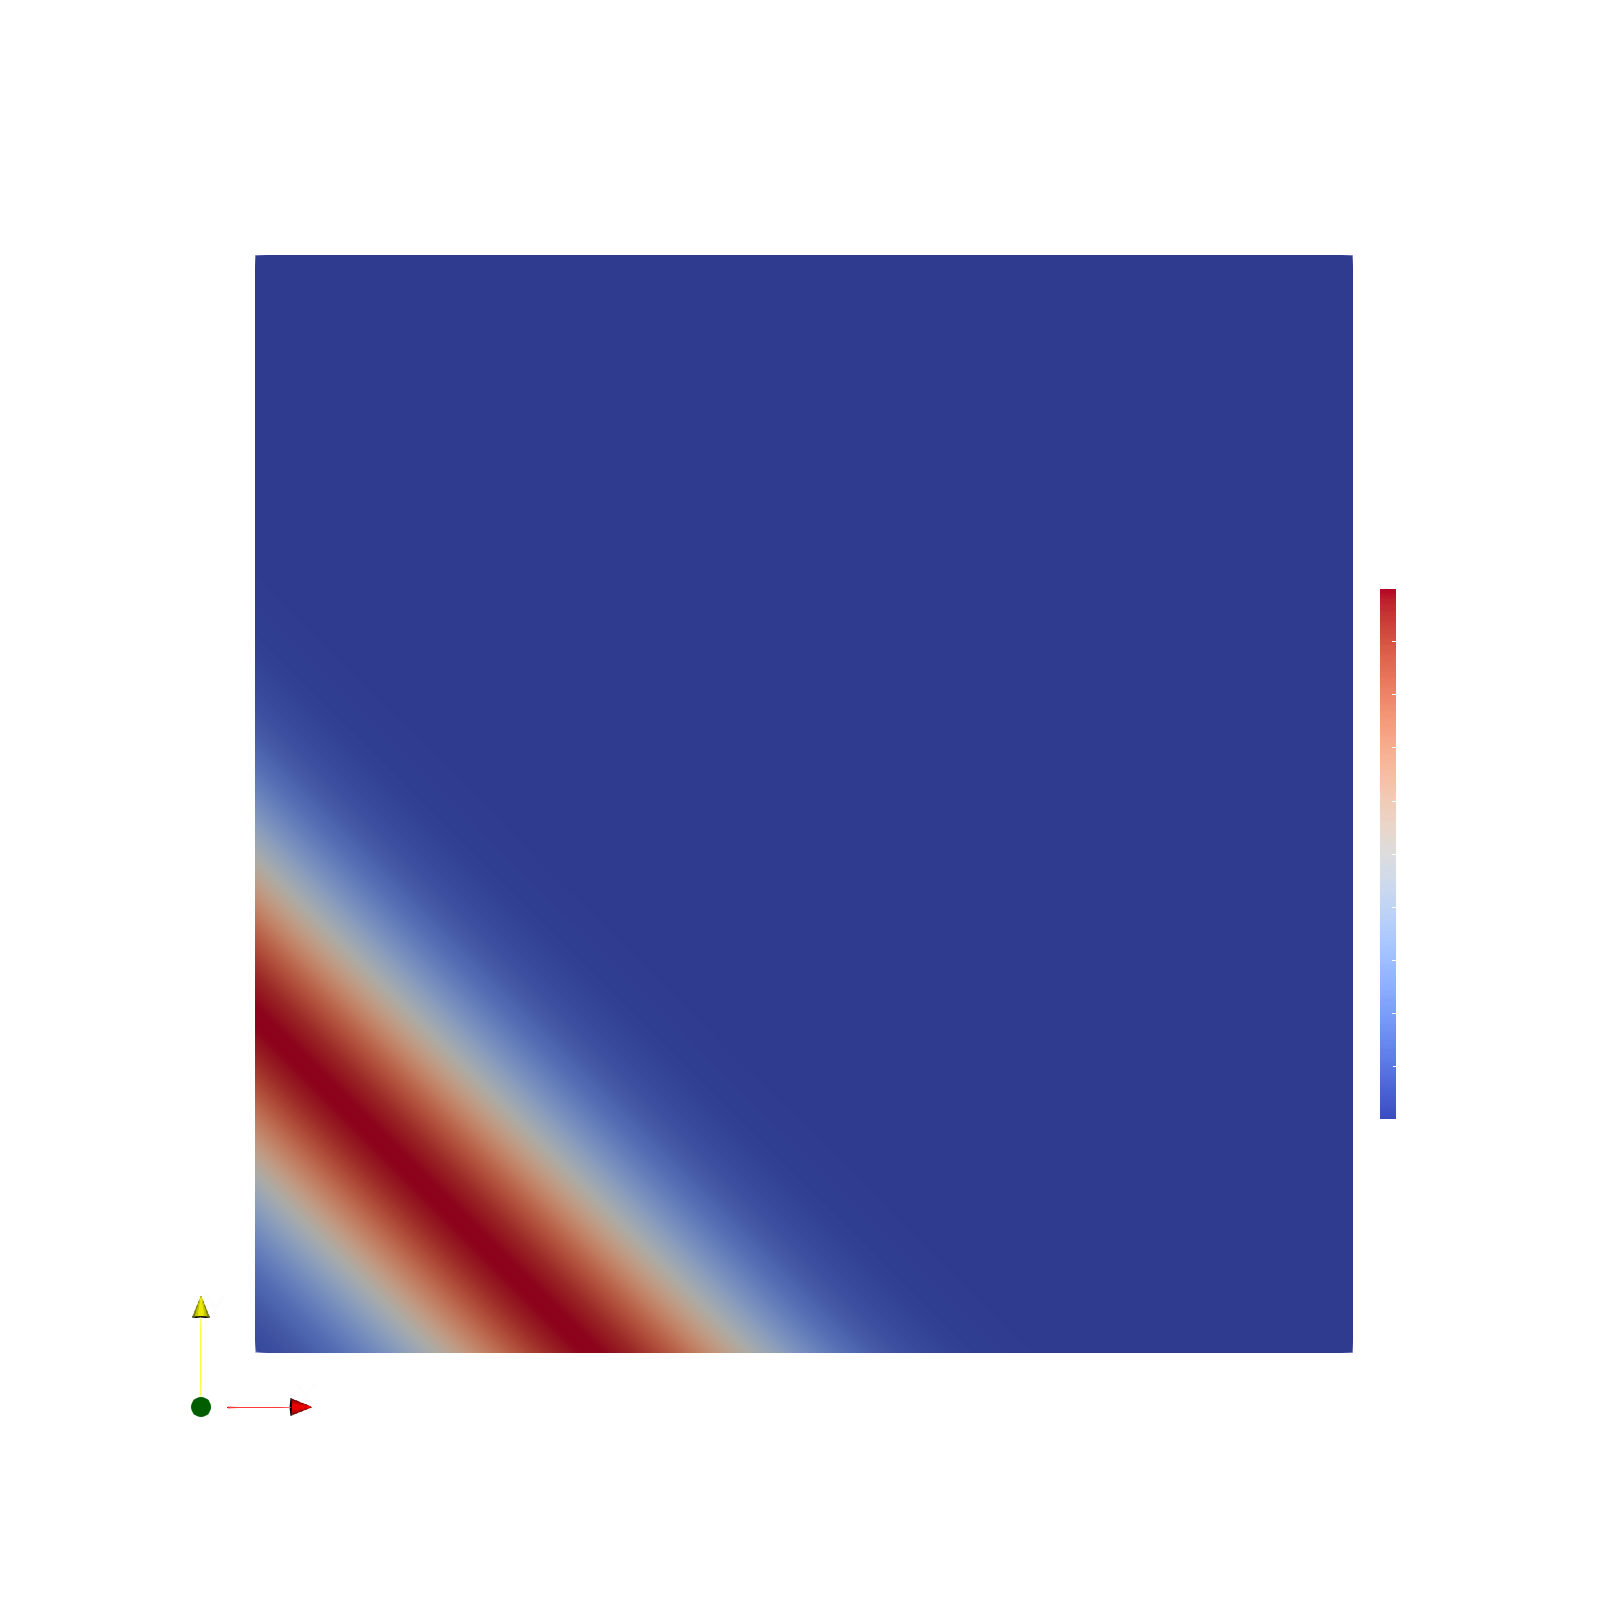
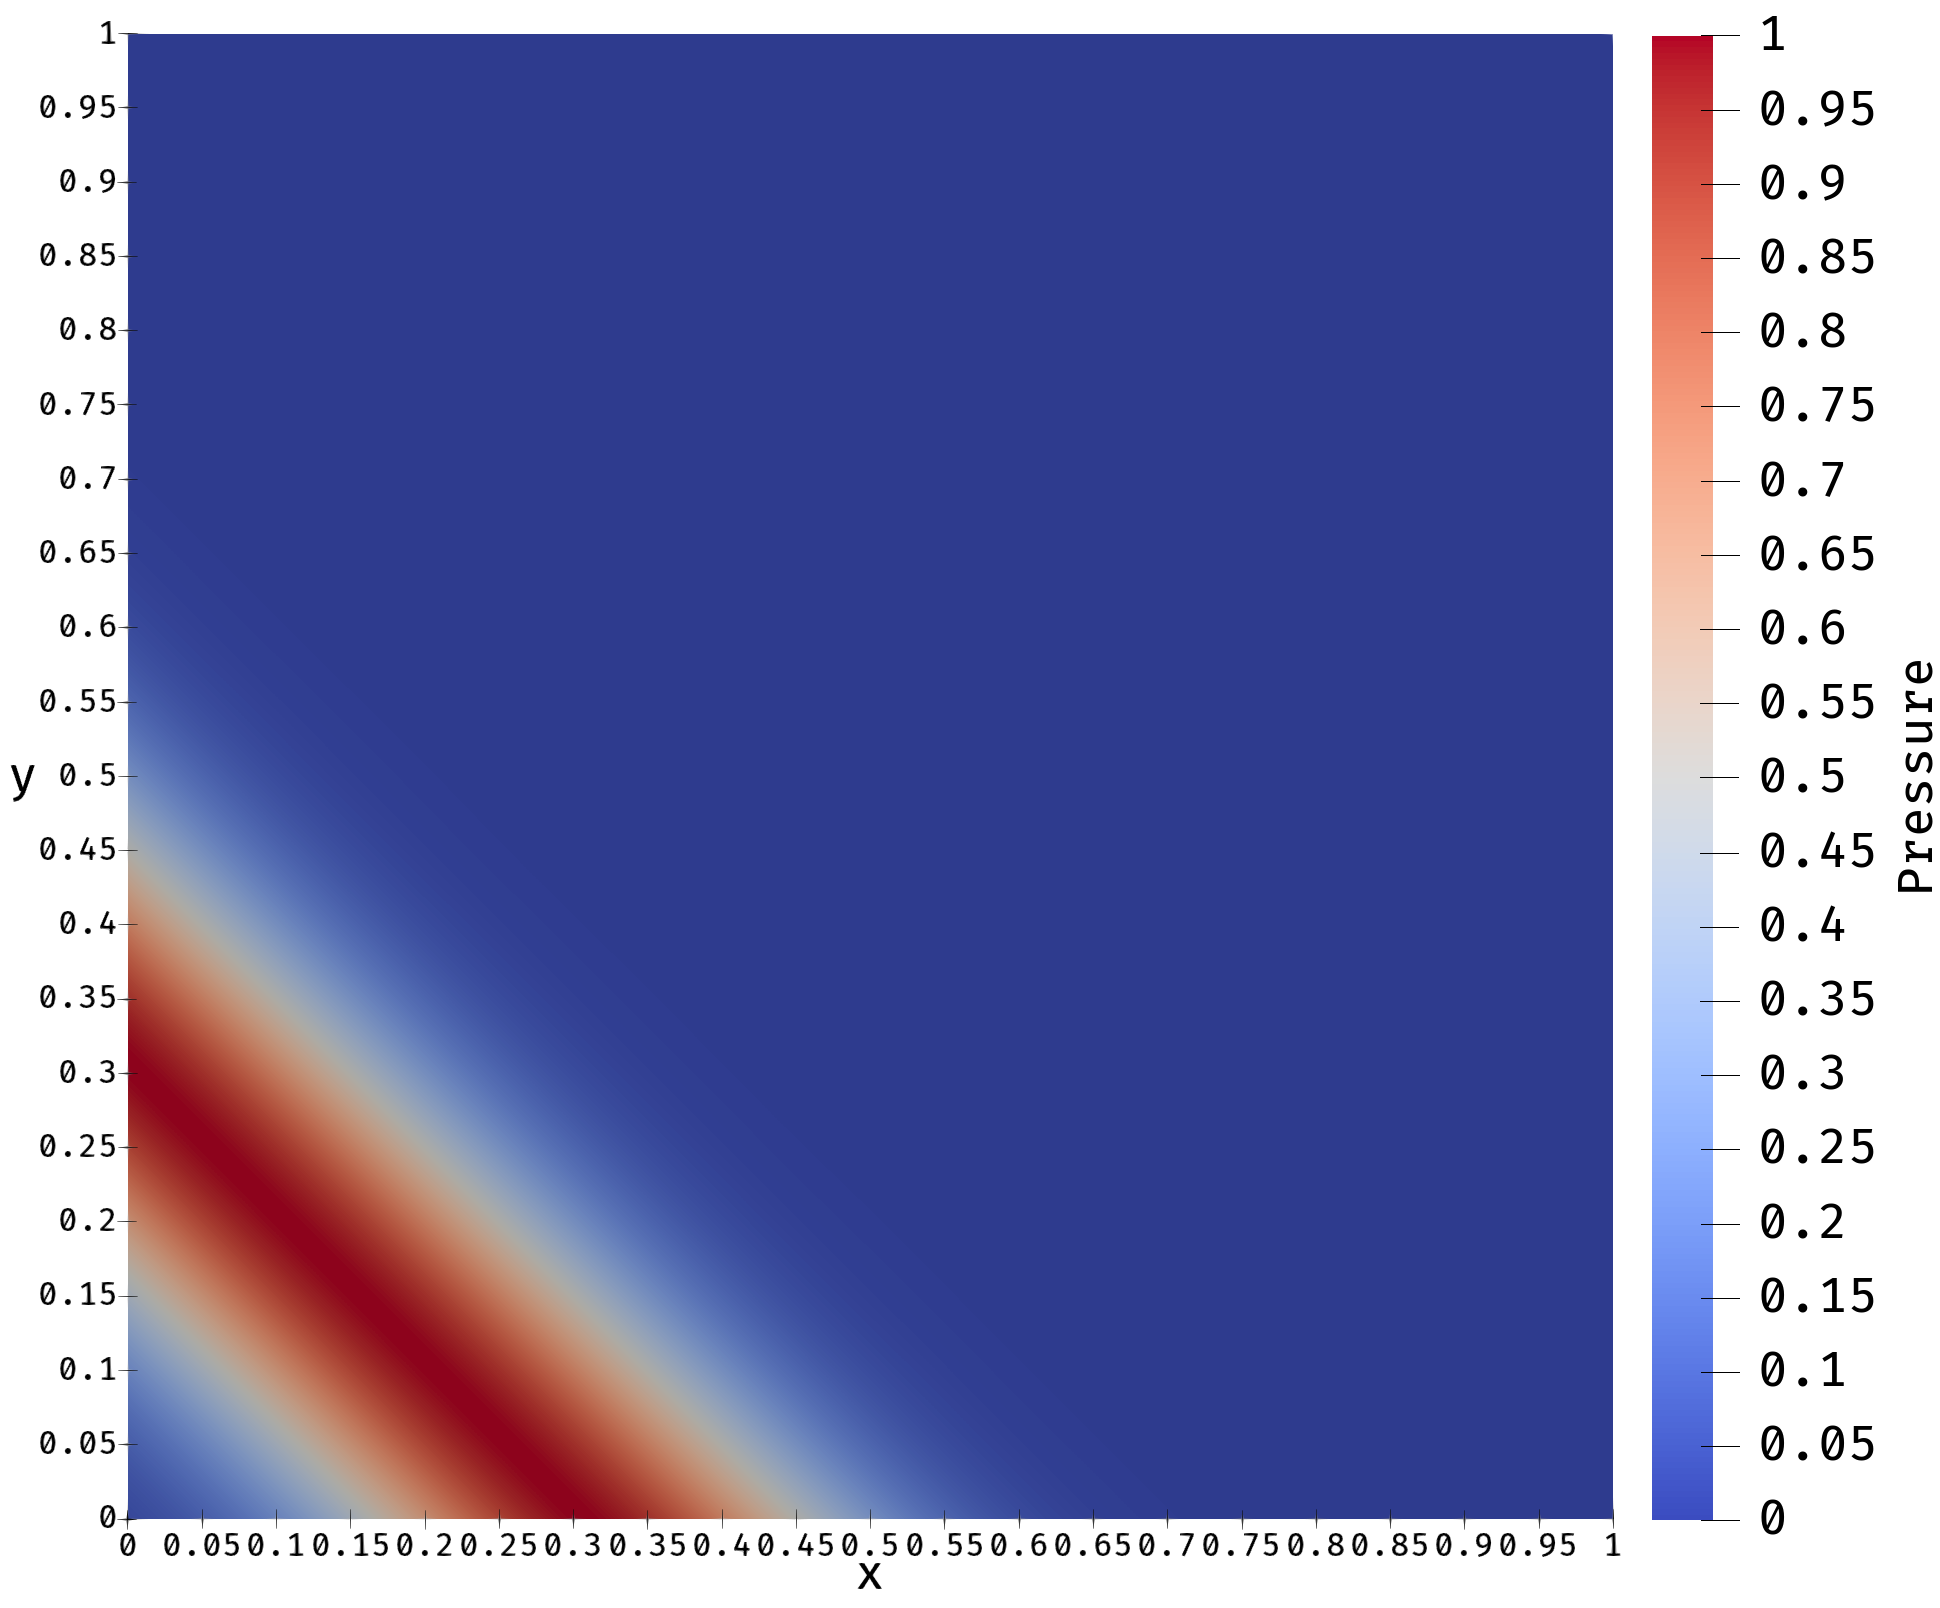
a bit about problem

diff --git a/thesis/Chapter_results/results.tex b/thesis/Chapter_results/results.tex
@@ -13,8 +13,9 @@ components are studied. First, the performance of the core spectral element meth
 \acrshortpl{acr:GPU}, with a comparison with the same code running on \acrshortpl{acr:CPU} is
 presented in Section~\ref{section:results:scaling_tests}. Then, the performance of the
 \acrlong{acr:AMR} is studied in Section~\ref{section:results:adaptivity_performance}. Dynamic load
-balancing is studied in Section~\ref{section:results:load_balancing_performance}. Finally, a more
-complex application is shown in Section~\ref{section:results:complex_application}
+balancing is studied in Section~\ref{section:results:load_balancing_performance}. Finally more
+complex applications are shown in Sections~\ref{section:results:complex_application}
+and~\ref{section:results:complex_meshes}.
 
 \section{Platforms}\label{section:results:platforms}
 
@@ -69,7 +70,14 @@ floating point numbers will execute at one sixteenth of the speed of compute-ori
 \acrshortpl{acr:GPU}, all other factors being equal.
 
 \section{Test Case}\label{section:results:test_case}
-% new case
+
+The test case used in this chapter is shown in Figure~\ref{fig:problem}. We solve the 2D wave
+equation from Section~\ref{section:spectral_element_method:equation} on a square domain of dimension
+1 in each dimension. A linear wave starts just outside of the domain, and traverses the domain
+diagonally. Figure~\ref{fig:problem} shows the pressure distribution at \(0.5 s\). The number of
+elements \( K \) varies depending on the problem, as does the polynomial order \( N \). This problem
+should help demonstrate key aspects of the program, as the solution is steeper near the wave and
+needs refinement for optimal results.
 
 \begin{figure}[H]
 	\centering
